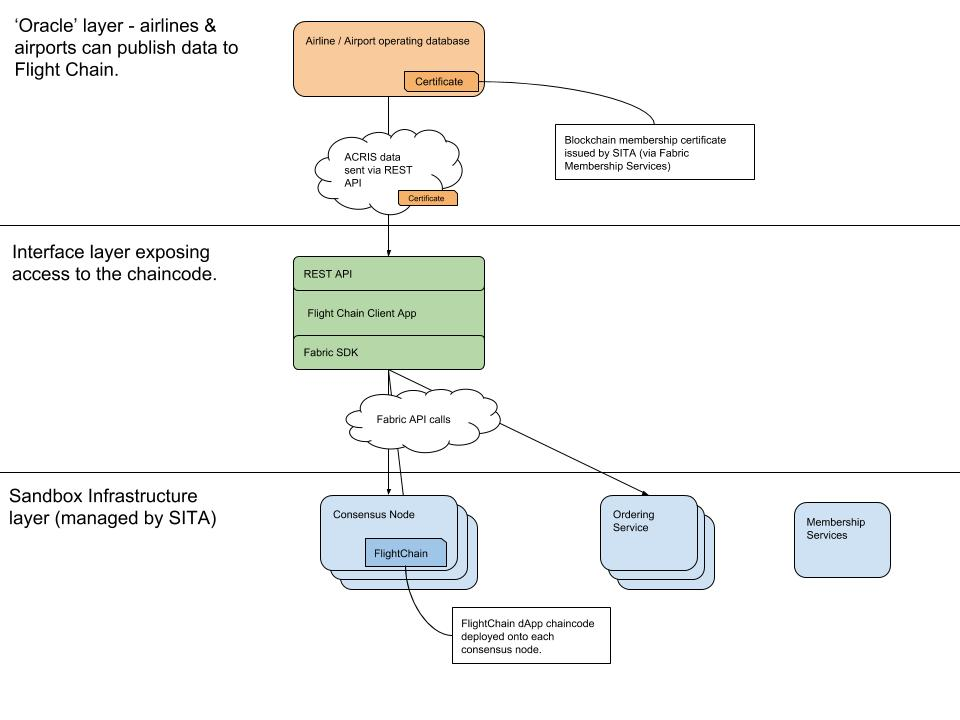
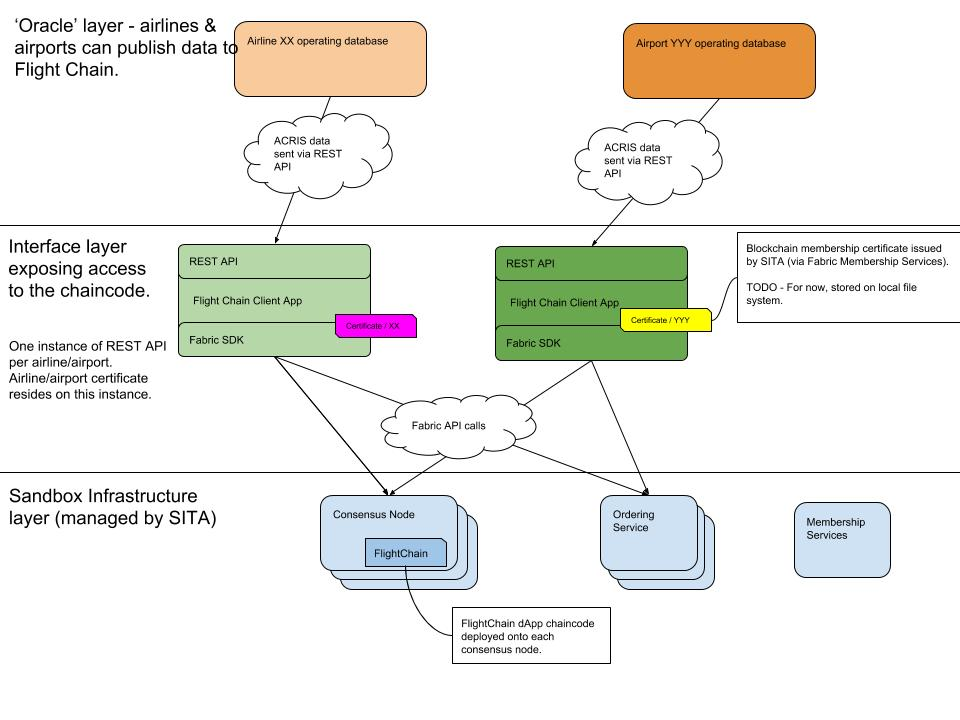
Documentation update, including new architecture.

diff --git a/flight-chain-api/src/main.ts b/flight-chain-api/src/main.ts
@@ -2,19 +2,35 @@ import {NestFactory} from '@nestjs/core';
 import {AppModule} from './app.module';
 import {DocumentBuilder, SwaggerModule} from "@nestjs/swagger";
 
+let identityIATA = null;
+
 async function bootstrap() {
     const app = await NestFactory.create(AppModule);
 
+    let port = process.env.LISTEN_PORT;
+
+    if (!port) {
+        console.error('You must specify the LISTEN_PORT as an environment variable.');
+        process.exit(201);
+    }
+    let identityIATA = process.env.IDENTITY;
+    if (!identityIATA) {
+        console.error('You must specify the IDENTITY as an environment variable.');
+        process.exit(201);
+    }
+
+    console.info(`Starting FlightChain API for ${identityIATA} on port ${port}`);
+
     const options = new DocumentBuilder()
-        .setTitle('Flight Chain REST API')
-        .setDescription('The Flight Chain API description')
+        .setTitle(`Flight Chain REST API for ${identityIATA}`)
+        // .setDescription('The Flight Chain API description')
         .setVersion('1.0')
         .build();
     const document = SwaggerModule.createDocument(app, options);
     SwaggerModule.setup('api', app, document);
 
     app.enableCors();
-    await app.listen(3000);
+    await app.listen(port);
 }
 
 bootstrap();

diff --git a/flight-chain-api/src/flight-chain/fight-chain.service.ts b/flight-chain-api/src/flight-chain/fight-chain.service.ts
@@ -16,7 +16,7 @@ export class FlightChainService {
     private member_user;
 
     // TODO - should channel name be env or API param, or other?
-    private username = 'LGA';
+    private username = process.env.IDENTITY;
     private channelName = 'channel-flight-chain';
     private peerEndpoints: string[] = ['grpc://localhost:7051'];
     private ordererEndpoint = 'grpc://localhost:7050';
@@ -55,7 +55,8 @@ export class FlightChainService {
             if (user_from_store && user_from_store.isEnrolled()) {
                 console.log('Successfully loaded ' + this.username + ' from persistence');
             } else {
-                throw new Error('Failed to get ' + this.username + '.... Did you run "node bootstrap/enrollAdmin.js && node bootstrap/registerUser.js""');
+                console.error(`Failed to get the identity ${this.username}.... Did you run "node bootstrap/enrollAdmin.js && node bootstrap/registerUser.js  ${this.username}"`);
+                process.exit(1);
             }
         })
 

diff --git a/README.md b/README.md
@@ -8,6 +8,13 @@ This dApp is open to any airline & airport to integrate into. Airlines & airport
 and can query the network to get the complete flight status data (which includes authoritative data from airline, 
 origin airport and destination airport).
 
+## How do I copy this?
+
+- Look in [chaincode](./chaincode) to see the smart contract code, how it is tested and deployed.
+- Look in [flight-chain-api](./flight-chain-api) to see how the chain code is exposed via a REST API to users.
+- Look in [sita-basic-network](./sita-basic-network) to see a sample Fabric network config for deploying this smart contract locally.
+- Look in [flight-chain-ui](./flight-chain-ui) to see a sample user interface that queries the API to get flight chain data.
+
 
 ![alt text](docs/images/flightchain.jpg "Flight Chain Network")
 Figure 1 - illustration of original Flight Chain network. 
@@ -27,8 +34,8 @@ Figure 1 - illustration of original Flight Chain network.
 ## Running chaincode on local dev environment <a name="localdev"></a>
 
 This repo comes complete with a Fabric network configration. This will work, assuming that you have
-already checked out https://github.com/hyperledger/fabric-samples and have gone through the pre-requiset 
-steps for fabric-samples.
+already checked out [https://github.com/hyperledger/fabric-samples] and have gone through the prerequisite 
+steps for fabric-samples. **Note** make sure you get version 1.2 (or later). 
 
 ### Start network & deploy chaincode locally.
 
@@ -51,22 +58,24 @@ Figure 2 - high level architecture overview.
 
 This simplified three layer diagram shows:
  
- - The sandbox infrastructure at the bottom. This is the Hyperledger Fabric network (consisting of consensus nodes, 
-ordering services and membership services). This is the network manged by SITA. The smart contracts (chain code) gets
+ - The sandbox infrastructure at the bottom. <br/> This is the Hyperledger Fabric network (consisting of consensus nodes, 
+ordering services and membership services). This is the network manged by SITA. The smart contracts ([chaincode](./chaincode)) is
 deployed onto this, and this network maintains the ledger world state. In future iterations of the blockchain network, 
 the consensus nodes will be spread over different airlines/airport data centres.
 
- - The Flight Chain Fabric Client app is the middle layer. This layer exposes access to the Flight Chain smart contract
- as a set of REST APIs (to query & publish updates). 
+ - The Flight Chain Fabric Client app is the middle layer. <br/> This layer exposes access to the Flight Chain smart contract
+ as a set of REST APIs (see [flight-chain-api](./flight-chain-api)). There is one instance of the REST API per airline or airport. Each instance
+ stores the private key for the airline/airport, and all calls to the chain-code are identified with this key.
  
-- The top layer shows airport/airline operating databases which POST updates during the lifecycle of a flight into 
-the REST API.   
+- The airport/airline operating databases is the top layer. <br/> This layer POSTs updates during the lifecycle of a flight into 
+the REST API. It is assumed there is a secure connection from the top layer to the interface layer.
 
 To comment on this diagram, see the [source architecture document](https://docs.google.com/drawings/d/1Zq-vAdJJv_G257eTWgB1CtkCOL1dma3JcDOeYaw4O4Q/edit)
 
 
 ### REST APIs <a name="rest-apis"></a>
 
+The code for the REST APIs is in [flight-chain-api](flight-chain-api).
 
 #### 1. Add new flight
 

diff --git a/chaincode/README.md b/chaincode/README.md
@@ -2,19 +2,31 @@
 
 ## About
 This folder contains the smart contract chaincode that is deployed on the Hyperledger Fabric network.
+The code is written in typescript, and it is assumed you are comfotable using node & npm.
 
-The code is written in typescript.
+The typical lifecycle developing locally is to make modifications to the code in (src)[./src], test the code (`npm run test:w`), 
+and then use the `deployChainCode.sh` script to deploy the new version of your chaincode onto your local network.
+
+
+**Note** You cannot run the chaincode directly with node. Look at the **Deploying chaincode** section for info on 
+how to deploy your code so it is executable.
+
 
 ## Pre-requisets
 
+Install node (v8.9.x) and npm.  **Note** Node v9 doesn't currently work with Hyperledger Fabric 1.2
+
 Run `npm install` to install the node_modules.
 
-## Building / Testing chaincode.
+## Testing chaincode.
 
 Run `npm run test:w` to enter into watch mode testing the chaincode on each file edit.
 
 
 ## Deploying chaincode locally
+
+There is a demo local fabric network in [sita-basic-network](../sita-basic-network). This script will instantiate
+that network and deploy the chaincode onto it. 
 
 Run `./deployChainCode.sh -v 1.0 -n flightchain` to rebuild the network and redeploy the chaincode.
 

diff --git a/flight-chain-api/README.md b/flight-chain-api/README.md
@@ -19,7 +19,7 @@ $ npm install
 ## Register admin/users
 
 For local testing, it is necessary to bootstrap the network with an admin user
-and some airline/airport users.
+and some airline/airport users. The certificates & pem file are stored in `bootstrap/hfc-key-store` by default
 
 > **NOTE** You must run this every time you rebuild your blockchain network.
 
@@ -47,20 +47,23 @@ node bootstrap/registerUser.js MIA
 
 ## Running the app
 
+When you start the app, you must specify via environment variables which port the instance of the REST API is listening 
+on and what airline or airport identity is related to this instance.
+
+There are some convenience scripts in package.json to set these environment variables.  
+
 ```bash
-# development
-$ npm run start
 
-# watch mode
-$ npm run start:dev
+# launch in watch mode for British Airways
+$ npm run start:ba
+# launch in watch mode for Miami Airport
+$ npm run start:mia
 
-# production mode
-npm run start:prod
 ```
 
 ## User Interface
 
-View the swagger docs for the API on http://localhost:3000/api.
+View the swagger docs for the API on `http://localhost:<LISTEN_PORT>/api.`
 
 
 ## API Security
@@ -68,7 +71,7 @@ View the swagger docs for the API on http://localhost:3000/api.
 TODO
 
 
-## Test
+## Tests
 
 ```bash
 # unit tests

diff --git a/flight-chain-ui/README.md b/flight-chain-ui/README.md
@@ -1,5 +1,10 @@
 # FlightChainUI
 
+The flight chain UI is a simple demo webapp that allows users to search by flight key, and it will display
+the history of changes to a flight.
+
+This project assumes that there is a [REST API interface](../flight-chain-api) running on `localhost:3000` 
+
 This project was generated with [Angular CLI](https://github.com/angular/angular-cli) version 6.1.1.
 
 ## Development server
@@ -22,6 +27,3 @@ Run `ng test` to execute the unit tests via [Karma](https://karma-runner.github.
 
 Run `ng e2e` to execute the end-to-end tests via [Protractor](http://www.protractortest.org/).
 
-## Further help
-
-To get more help on the Angular CLI use `ng help` or go check out the [Angular CLI README](https://github.com/angular/angular-cli/blob/master/README.md).
